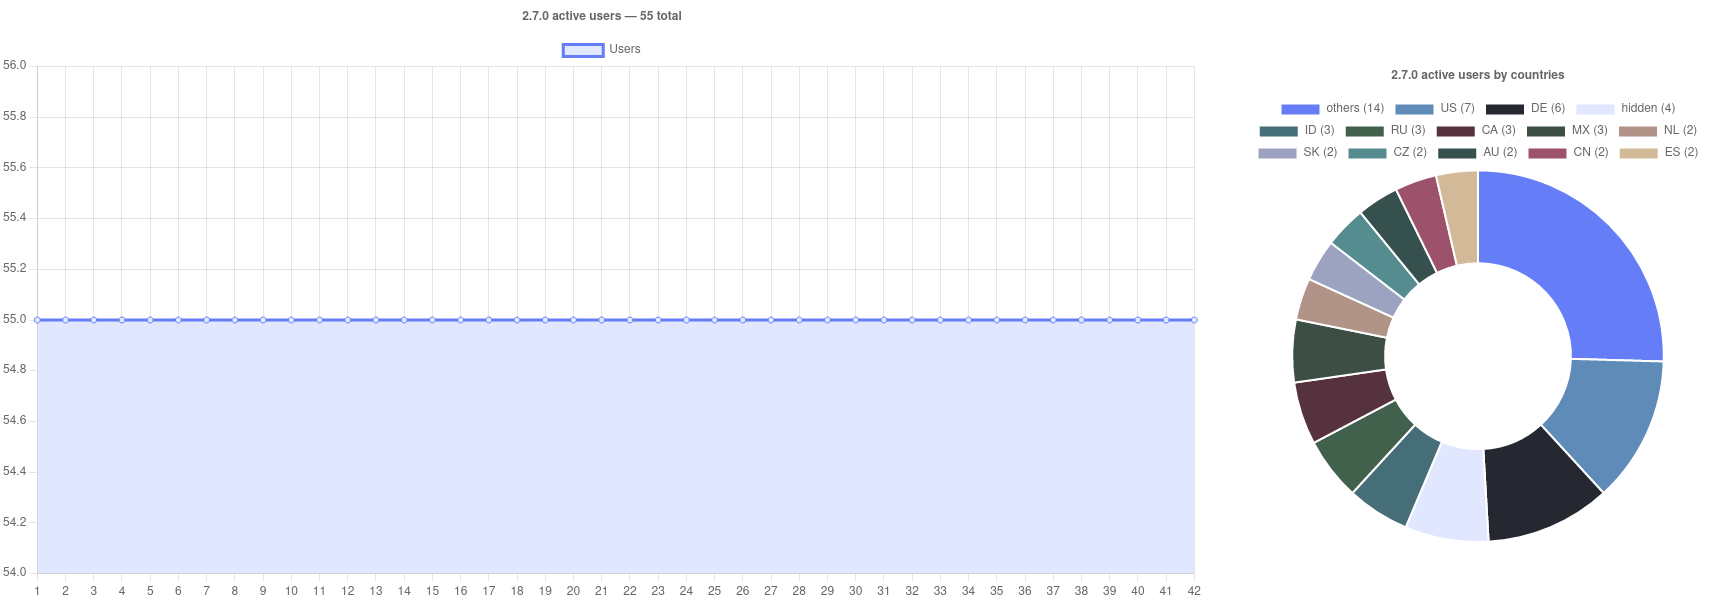
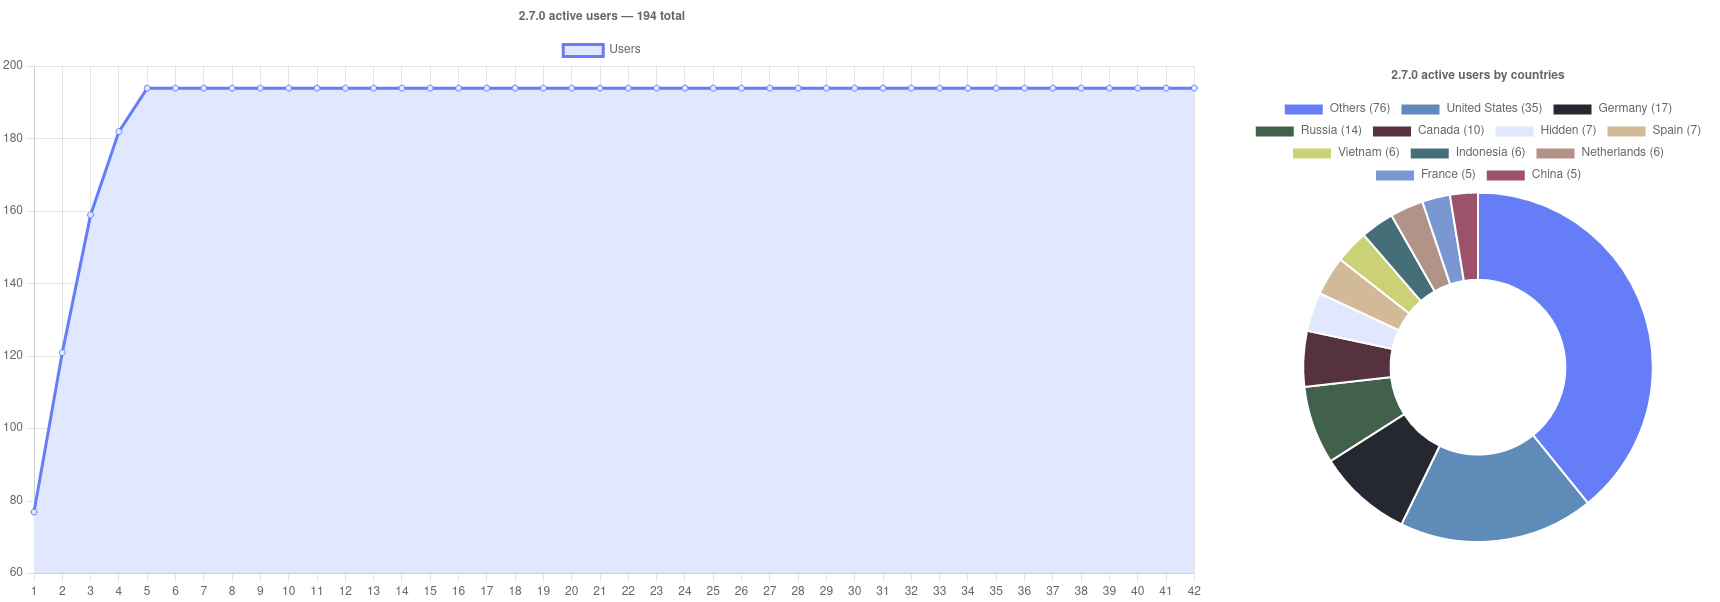
Updated statistics and patch status

diff --git a/README.md b/README.md
@@ -69,7 +69,7 @@ field in your `config.yaml` file (settings -> launcher folder). If your system u
 
 | Game version | Launcher version | Patch version |
 | :---: | :---: | :---: |
-| 2.7.0 | 2.3.5 | 2.7.0 testing ⚠ |
+| 2.7.0 | 2.3.5 | 2.7.0 stable ✅ |
 
 We have our own [An Anime Game](https://discord.gg/ck37X6UWBp) discord server where you can ask any questions
 
@@ -81,7 +81,7 @@ This is our current usage statistics. You can find older ones [here](repository/
 
 <img src="repository/pics/stats/2022/may17-may31.png">
 
-### 2.7.0 launcher users — 55 total
+### 2.7.0 launcher users — 194 total
 
 <img src="repository/pics/stats/2.7.0.png">
 
